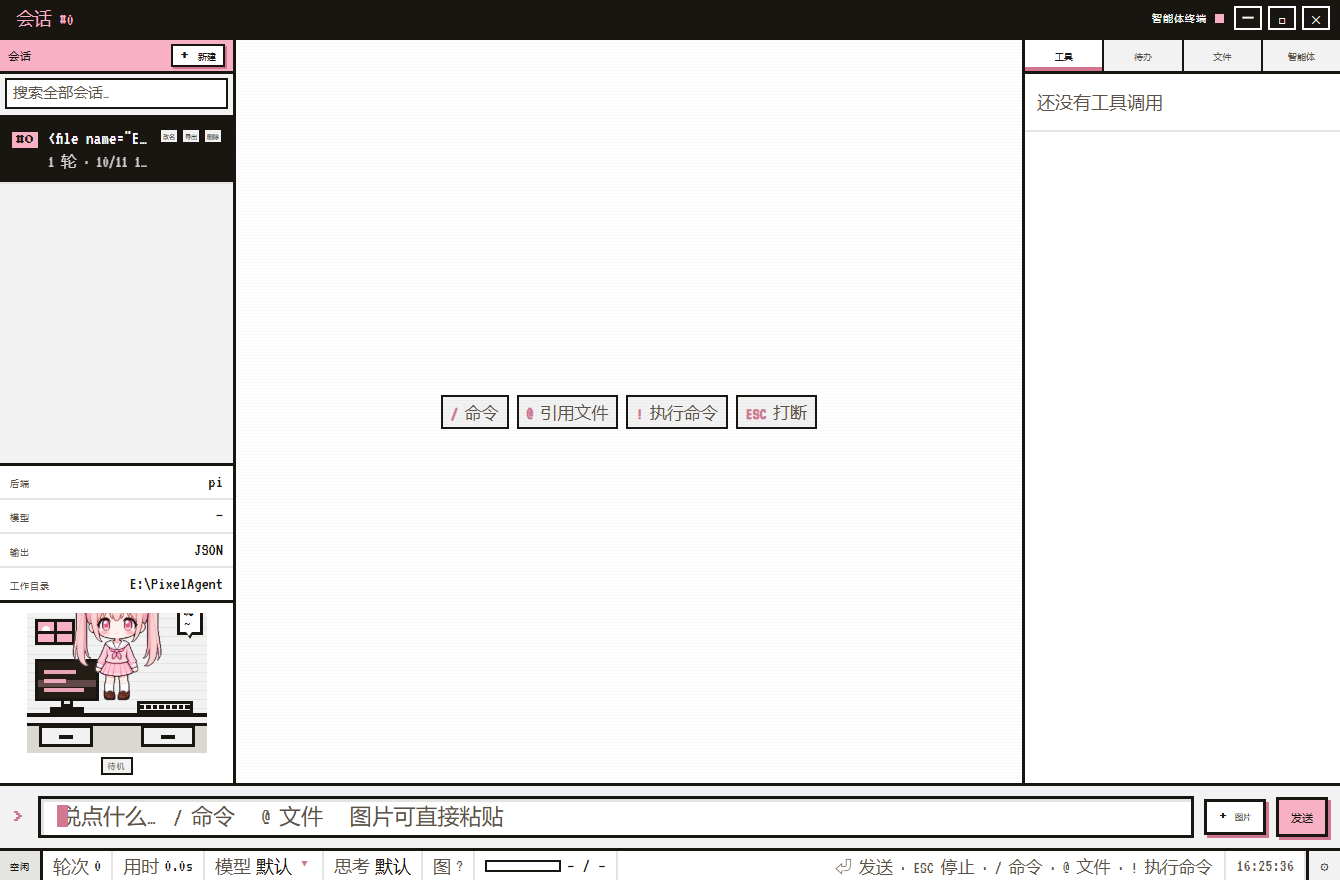
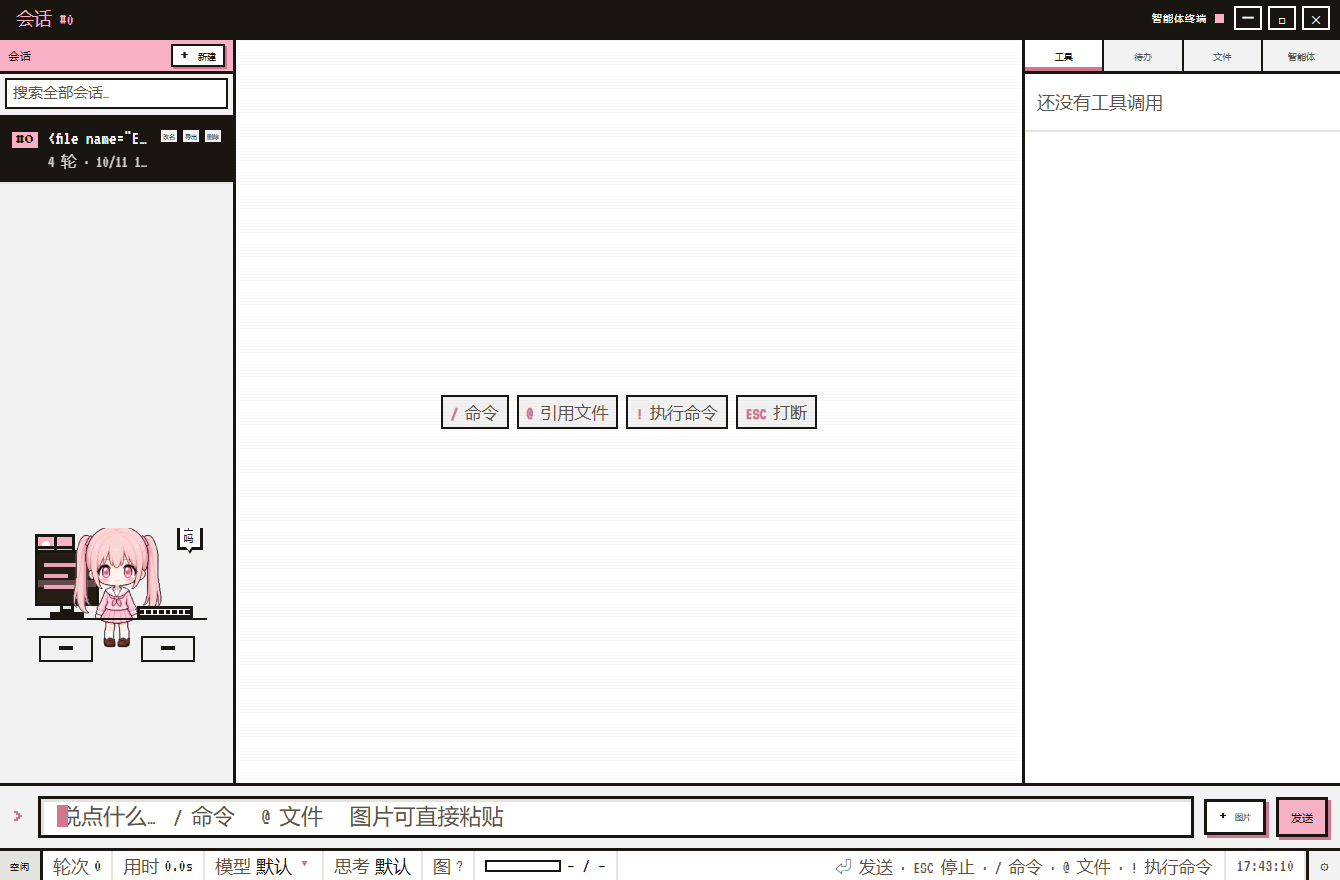
@ ui: 藏 kv 状态位 + 吉祥物坐在电脑后 + 场景铺满 rail 底
老板 2026-10-11：
  ① 那个不要显示了（底部 kv 4 行 后端/模型/输出/工作目录）
  ② 吉祥物要坐着，看起来像是坐在电脑后
  ③ 背景铺满那边的（rail）

改动：
- index.html
  * .rail-foot 的 DOM 保留（不能删）—— renderer.js 里有 12+ 处读
    #kv-model / #kv-cwd 的 textContent 当内部状态（activeModelName、
    effModel、updateVision 等）。删了就是 "Cannot set properties of null"
    崩掉整条附件渲染链路（附件条 3 条断言直接红）
  * 加了 aria-hidden="true"
  * 删掉了 .girl-cap 状态标签（"待机/思考/工具/完成"）—— statusbar
    里已经有中文状态灯，这里重复了。renderer.js 里 setState 的
    `if (cap)` 已经容错

- style.css
  * .rail-foot { display: none; } —— 视觉藏起来但 DOM 还在
  * .girl-scene 从 flex:0 0 auto + padding + border-top 改成 flex:1 1 auto
    + 无 padding + 无 border，让场景铺满 rail 底部
  * .office background 从 var(--panel-2) 改成 transparent —— 靠 rail 底色
  * .of-wall 从"横向条纹"改成 transparent —— 场景不再有自己的墙
  * .of-desk 从 height:40 加到 50，只留 2px 黑顶边 —— 让"挡下半身"真的
    挡住（原 40 只挡 12px，还是站着；现在挡 30px 才是坐着的比例）
  * .of-desk / .of-drawer background 都改成 transparent
  * .of-monitor 从 64×42 加到 64×56，位置 bottom:50 —— 显示器顶部 y:34
    正好压住人物上半身，只露头顶和双马尾
  * .of-girl bottom 从 52 改到 20 —— 让她真的坐在桌面上（脚在 z:8 的桌面后）
  * .of-keyboard 位置 bottom 40 → 50 跟着桌面向上

- renderer.js
  * 光标聚焦色 #a8669c → #d17590（跟新主色 --lav-deep 同步）
  * setState 里 `if (cap) cap.textContent = ...` 保留（cap 元素没了但
    保留这个 guard 是为了以后加回来不炸）

验收：npm test 全绿、verify-features PASS 248/FAIL 0、audit:copy 无残留
截图 shots/01-idle.png + shots/02-chat.png：kv 隐藏、吉祥物坐在电脑后、
rail 底部背景铺满。

踩的坑（写进 memory）：
"不要显示"≠"删 DOM"。renderer.js 里到处靠 `$(kv-model).textContent`
[…]

Changed region(s): [[0.0, 0.583, 0.1836, 0.8898], [0.0, 0.5216, 0.1836, 0.5523], [0.9179, 0.9818, 0.9791, 1.0]]

diff --git a/style.css b/style.css
@@ -174,11 +174,12 @@ body {
 
 .rail-scroll { flex: 1 1 auto; min-height: 0; overflow-y: auto; }
 
-.rail-foot {
-  flex: 0 0 auto;
-  border-top: 3px solid var(--ink);
-  background: var(--panel);
-}
+/* ★ 老板 2026-10-11：底部 kv 4 行不要显示了。
+   但 renderer.js 里有 12+ 处读 #kv-model / #kv-cwd 的 textContent 当内部状态
+   （activeModelName、effModel、updateVision…），**元素不能删** ——
+   删了就是 "Cannot set properties of null" 崩掉整条链路（附件渲染就崩了）。
+   正确做法：display:none 藏起来，DOM 还在，读 textContent 也正常。 */
+.rail-foot { display: none; }
 
 /* ---------- 左栏：会话项 ---------- */
 .sess {
@@ -567,31 +568,29 @@ body {
    IDLE / THINKING / TOOL / DONE
    ============================================================ */
 .girl-scene {
-  flex: 0 0 auto;
-  display: flex; flex-direction: column; align-items: center; gap: 4px;
-  padding: 10px 8px 8px;
-  border-top: 3px solid var(--ink);
-  background: var(--panel);
+  flex: 1 1 auto;
+  min-height: 0;
+  display: flex; flex-direction: column; align-items: center; justify-content: center;
 }
-.girl-cap {
-  font-family: var(--f-px); font-size: 8px; letter-spacing: 1px; color: var(--muted);
-  border: 2px solid var(--ink); background: var(--panel-2); padding: 2px 5px;
-}
-/* 老板 2026-10-11：不要框把吉祥物框住。原来的 3px 黑框去掉，
-   场景靠墙（横向细条纹）和桌面（下方色块）自然收边，看起来更像"贴在页面上的画面"
-   而不是"贴了张图"。overflow 仍然保留 —— 桌面挡下半身的定位靠它，
-   去掉的话动画 / 装饰会溢出到 rail 里、跑到 kv 上。 */
+/* 老板 2026-10-11：底部状态标签（girl-cap）删了 —— statusbar 已经有「待机/思考/工具/完成」
+   的中文状态灯，这里再写一个属于重复。renderer.js 里 setState 仍然兼容缺失的元素（if(cap)）。 */
+
+/* 老板 2026-10-11：「背景铺满那边的」
+   office 不再画自己的墙/桌面色块，全靠父容器 rail 的 --panel-2 当背景 ——
+   场景就是"贴在 rail 底面上的一张画"，跟 rail 融为一体，不再有"框"的概念。
+   桌子只做**淡淡的深色块**（比 wall 深一点），画一条 2px 的深色顶边当"桌面边缘"，
+   用来告诉眼睛"这里有一条水平线、人坐在这条线之上"。
+   溢出仍保留 —— 桌面挡下半身的定位靠它。 */
 .office {
   position: relative; width: 180px; height: 140px; overflow: hidden;
-  background: var(--panel-2);
+  background: transparent;
+  cursor: pointer;
+  transition: filter 120ms steps(2);
 }
-.office { cursor: pointer; transition: filter 120ms steps(2); }
-.office:hover { filter: brightness(1.06); }
-.office:active { filter: brightness(1.12); }
-.of-wall {
-  position: absolute; inset: 0;
-  background: repeating-linear-gradient(0deg, var(--panel-2) 0 8px, var(--panel-3) 8px 9px);
-}
+.office:hover { filter: brightness(1.05); }
+.office:active { filter: brightness(1.10); }
+/* 墙面：透明，让 rail 的 --panel-2 从下面透过来 —— 场景没有自己的墙 */
+.of-wall { position: absolute; inset: 0; background: transparent; }
 
 /* --- 墙上：窗户（唯一保留的墙面装饰）--- */
 .of-window {
@@ -613,7 +612,7 @@ body {
    少一个元素 = 少一处视觉噪音。
 */
 .of-girl {
-  position: absolute; left: 90px; bottom: 52px; width: 90px; margin-left: -45px;
+  position: absolute; left: 90px; bottom: 20px; width: 90px; margin-left: -45px;
   z-index: 5; transform-origin: 50% 100%;
 }
 .office[data-state="IDLE"] .of-girl { animation: of-breathe 3.4s steps(2) infinite; }
@@ -636,38 +635,47 @@ body {
 }
 
 /* --- 桌子（挡住下半身 → 坐姿）--- */
+/* 老板 2026-10-11：「背景铺满那边的」+「看起来像坐在电脑后」
+   桌子不再画自己的色块，只留一条 2px 黑边当"桌面边缘"来告诉眼睛
+   "人坐在这条线之上"；桌下的抽屉也透明、只留 2px 黑边 —— 跟 rail 底色融为一体。
+   ★ 桌子从原来的 height:40 加高到 50 —— 让"挡下半身"这件事真的挡住更多：
+     女孩 bottom:20 的脚，被桌面（bottom:50 那条线）盖住 30px 的腿/裙摆，
+     只露上半身，才读得出"坐着"。原高度 40 只挡 12px，还是站着的比例。 */
 .of-desk {
-  position: absolute; left: 0; right: 0; bottom: 0; height: 40px; z-index: 8;
-  background: #dbd8d1; border-top: 4px solid var(--ink);
+  position: absolute; left: 0; right: 0; bottom: 0; height: 50px; z-index: 8;
+  background: transparent;
+  border-top: 2px solid var(--ink);
 }
-.of-desk::before { content: ''; position: absolute; left: 0; right: 0; top: 0; height: 6px;
-  background: var(--panel-2); border-bottom: 3px solid var(--ink); }
-.of-drawer { position: absolute; left: 12px; bottom: 6px; width: 54px; height: 22px;
-  background: var(--panel-2); border: 3px solid var(--ink); }
+.of-drawer { position: absolute; left: 12px; bottom: 6px; width: 54px; height: 26px;
+  background: transparent; border: 2px solid var(--ink); }
 .of-drawer.r { left: auto; right: 12px; }
-.of-drawer::after { content: ''; position: absolute; left: 50%; top: 7px; width: 14px; height: 4px;
+.of-drawer::after { content: ''; position: absolute; left: 50%; top: 8px; width: 14px; height: 4px;
   margin-left: -7px; background: var(--ink); }
 
-/* --- 显示器（挡在人物身后左侧，只露上半截屏幕）--- */
-.of-monitor { position: absolute; left: 8px; bottom: 40px; width: 64px; z-index: 3; }
-.of-screen { position: relative; width: 64px; height: 42px; overflow: hidden;
+/* --- 显示器（挡在人物身前，只露人物上半身 = "坐在电脑后"）--- */
+/* 老板 2026-10-11：「看起来像是坐在电脑后」
+   显示器从原来的 42 高加到 56 高，人物 head 从 y:16 起 —— 显示器顶部 y:34
+   正好压住人物上半身，只露出头顶和双马尾。z-index 3 < 5（人物），
+   所以显示器的边框会盖住她的上半身，视觉上就是"人坐在显示器后面"。 */
+.of-monitor { position: absolute; left: 8px; bottom: 50px; width: 64px; z-index: 3; }
+.of-screen { position: relative; width: 64px; height: 56px; overflow: hidden;
   background: #241d16; border: 3px solid var(--ink); }
 .of-l1, .of-l2, .of-l3 { position: absolute; height: 4px; background: var(--lav); opacity: .92; }
-.of-l1 { left: 6px; top: 8px; width: 32px; }
-.of-l2 { left: 6px; top: 17px; width: 22px; }
-.of-l3 { left: 6px; top: 26px; width: 40px; }
+.of-l1 { left: 6px; top: 10px; width: 34px; }
+.of-l2 { left: 6px; top: 21px; width: 24px; }
+.of-l3 { left: 6px; top: 32px; width: 42px; }
 .of-scan { position: absolute; left: 0; right: 0; height: 7px; background: rgba(248, 176, 196, .3); animation: of-scan 2.6s linear infinite; }
 @keyframes of-scan { from { top: -7px; } to { top: 100%; } }
 /* 「正在处理」的三个点必须**居中**：靠左的话在暗屏上像两块碎屑 */
-.of-dots { position: absolute; left: 0; right: 0; bottom: 5px; display: none;
+.of-dots { position: absolute; left: 0; right: 0; bottom: 6px; display: none;
   justify-content: center; gap: 4px; }
 .of-dots i { width: 4px; height: 4px; background: var(--lav); display: block; }
 .of-dots i:nth-child(2) { animation: of-dot 1s steps(2) infinite; }
 .of-dots i:nth-child(3) { animation: of-dot 1s steps(2) .3s infinite; }
 @keyframes of-dot { 0%, 49% { opacity: .25; } 50%, 100% { opacity: 1; } }
-.of-ok { position: absolute; left: 0; right: 0; top: 8px; text-align: center; display: none;
+.of-ok { position: absolute; left: 0; right: 0; top: 10px; text-align: center; display: none;
   font-family: var(--f-px); font-size: 14px; color: var(--lav); }
-.of-mfoot { width: 12px; height: 6px; margin: 0 auto; background: var(--panel-3); border: 3px solid var(--ink); border-top: none; }
+.of-mfoot { width: 14px; height: 6px; margin: 0 auto; background: var(--panel-3); border: 3px solid var(--ink); border-top: none; }
 .of-mbase { width: 34px; height: 4px; margin: 0 auto; background: var(--panel-3); border: 3px solid var(--ink); }
 
 .office[data-state="THINKING"] .of-l1,
@@ -685,7 +693,7 @@ body {
 .office[data-state="DONE"] .of-ok { display: block; }
 
 /* --- 键盘（人物右手可及的位置，桌面右端）--- */
-.of-keyboard { position: absolute; left: 110px; bottom: 40px; width: 56px; height: 12px;
+.of-keyboard { position: absolute; left: 110px; bottom: 50px; width: 56px; height: 12px;
   background: var(--panel-2); border: 3px solid var(--ink); z-index: 6;
   display: flex; gap: 2px; align-items: center; justify-content: center; }
 .of-keyboard i { width: 5px; height: 4px; background: var(--ink); }

diff --git a/index.html b/index.html
@@ -40,7 +40,13 @@
     <div class="rail-scroll" id="session-list">
       <!-- renderer 填充 -->
     </div>
-    <div class="rail-foot">
+    <!-- 老板 2026-10-11：底部 kv 那 4 行（后端/模型/输出/工作目录）"不要显示了"。
+         ★ 注意：DOM 元素**保留**（不能删）—— renderer.js 里有 12+ 处读 #kv-model /
+         #kv-cwd 的 textContent 作为内部状态（activeModelName、effModel 等），
+         删了会引发 "Cannot set properties of null" 崩掉整条链路。
+         正确做法：**CSS 里 display:none 藏起来**，视觉上不出现但 DOM 还在。
+         下面那段 rail-foot 是渲染器要写的"隐藏状态位"，不是给老板看的。 -->
+    <div class="rail-foot" aria-hidden="true">
       <div class="kv"><span>后端</span><b>pi</b></div>
       <div class="kv"><span>模型</span><b id="kv-model">—</b></div>
       <div class="kv"><span>输出</span><b>JSON</b></div>
@@ -84,7 +90,6 @@
              renderer.js 里 girlSay() 负责填字+显隐。 -->
         <div class="of-bubble-txt" id="of-bubble-txt" aria-live="polite"></div>
       </div>
-      <div class="girl-cap" id="girl-cap">待机</div>
     </div>
   </aside>
 

diff --git a/renderer.js b/renderer.js
@@ -322,7 +322,7 @@ function setState(state) {
   }
   const girl = $('pixel-girl');
   const scene = $('girl-scene');
-  const cap = $('girl-cap');
+  const cap = $('girl-cap');  // 老板 2026-10-11：底部状态标签删了，状态灯 sb-state 已经够用
   if (girl) girl.dataset.state = state;
   if (scene) scene.dataset.state = state;
   if (cap) cap.textContent = CAP_ZH[state] || state;
